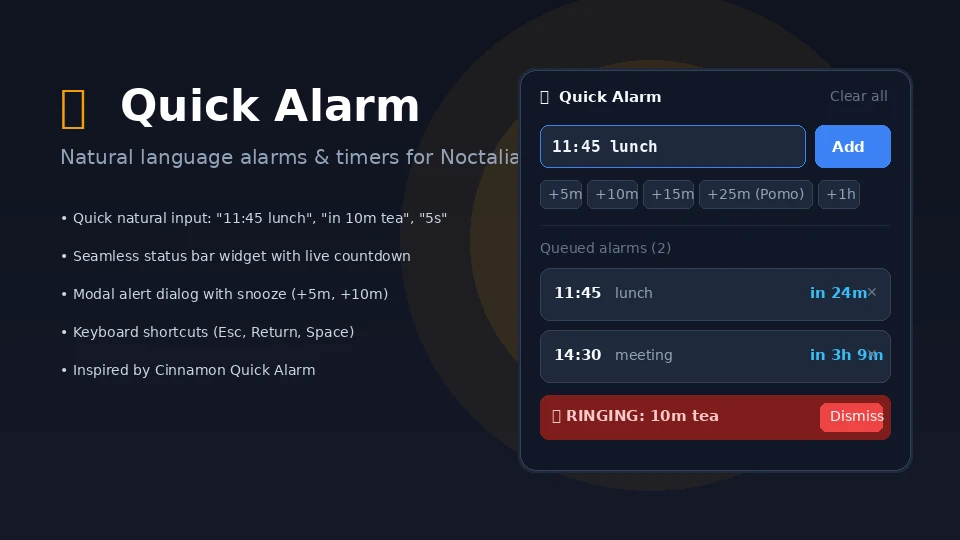
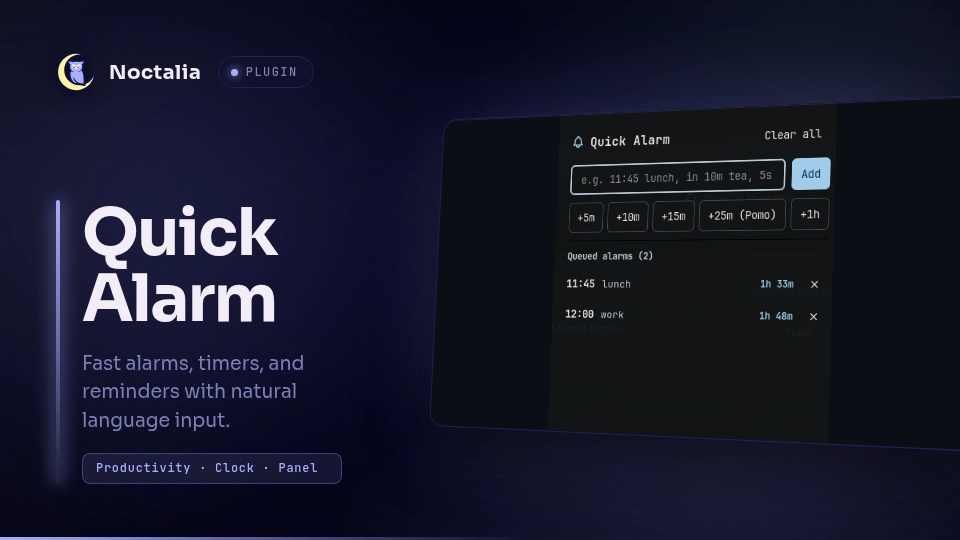
feat(quick-alarm): update thumbnail and add screenshot of the alarm panel

Changed region(s): [[0.0312, 0.0889, 1.0, 0.8889], [0.0, 0.9778, 0.4688, 1.0], [0.9062, 0.8593, 0.9375, 0.8889]]

diff --git a/quick-alarm/README.md b/quick-alarm/README.md
@@ -2,7 +2,7 @@
 
 Quick Alarm allows you to quickly set multiple alarms, timers, and reminders using flexible natural language input, matching the behavior and syntax of the popular Cinnamon Quick Alarm applet.
 
-![Quick Alarm](thumbnail.webp)
+![Quick Alarm](screenshot.png)
 
 ## Plugin
 
